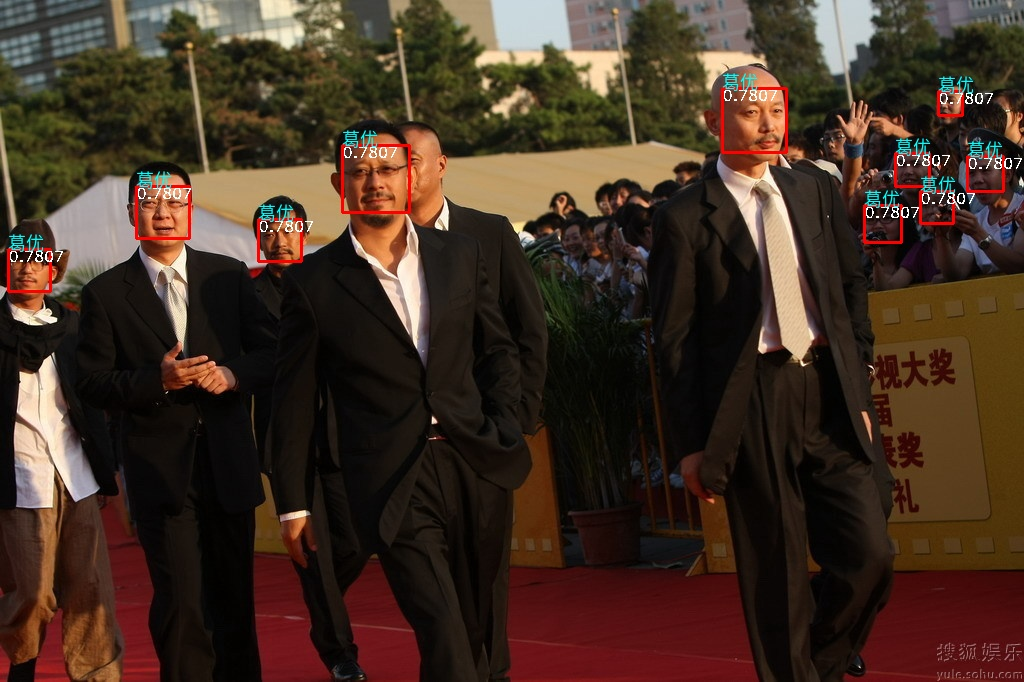
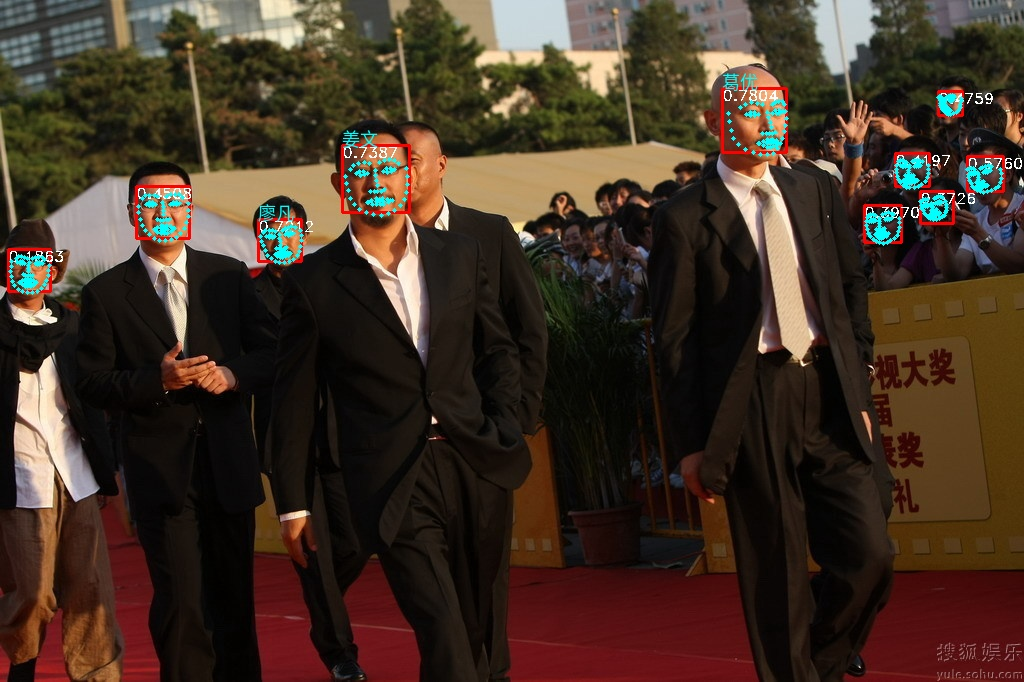
Fix face recog problems

diff --git a/examples/register_face.py b/examples/register_face.py
@@ -1,0 +1,149 @@
+import json
+import os
+import traceback
+
+import cv2
+import time
+import numpy as np
+
+import h5py
+
+from tqdm import tqdm
+
+import onnxruntime
+from openiva.commons import facial
+
+from detector import Detector
+from alignment import LandmarksExtractor
+from arcface import ArcFace
+from arcface.utils import l2_norm, face_distance, sub_feature
+
+from openiva.commons.facial import FacialInfo, FacialDB, parse_filename, remove_old
+
+from openiva.commons.io import imread
+
+
+def worker_dir(path_dir, detector: Detector, lm_extractor: LandmarksExtractor, arcface: ArcFace, over_write=False):
+    facial_info = FacialInfo()
+
+    print('Registing dir:{}'.format(path_dir))
+    info_path = os.path.join(path_dir, 'info.json')
+
+    empty_flag_path = os.path.join(path_dir, 'empty.flag')
+    nb_imgs = 0
+    name_celeba, id_douban, gender_id = parse_filename(path_dir)
+
+    # and not (os.path.exists(empty_flag_path)):
+    if ((not os.path.exists(info_path)) or over_write):
+        if os.path.exists(info_path):
+            os.remove(info_path)
+        path_list = [os.path.join(path_dir, fn) for fn in os.listdir(path_dir)]
+
+        feature_list = []
+        for path in path_list:
+            try:
+                if path[-4:] in ['flag', 'json']:
+                    continue
+                # print('Working on img:{}'.format(path))
+                img_src = imread(path)
+                if img_src is None:
+                    continue
+                rectangles_batch, probes_batch = detector.predict([img_src])
+                rectangles = rectangles_batch[0]
+
+                if not len(rectangles) == 1:
+                    # print("More than 1 face or no face in img, PASS")
+                    continue
+
+                lm = lm_extractor.predict_single(img_src, rectangles)[0]
+                feature_vec = arcface.predict_single(img_src, [lm])[0]
+                feature_list.append(feature_vec)
+                nb_imgs += 1
+
+            except KeyboardInterrupt:
+                traceback.print_exc()
+                quit()
+
+            except:
+                traceback.print_exc()
+                continue
+
+        if len(feature_list):
+            feature_list = np.asarray(feature_list)
+            mean_feature = np.mean(feature_list, axis=0)
+            #print(path_dir+' nb feature:{}'.format(len(feature_list)))
+            feature_list, mean_feature = sub_feature(feature_list)
+            print("Computed facial feature vector from {} images from directory {}, got {} faces.\nActor's name is {}.".format(
+                nb_imgs, path_dir, len(feature_list), name_celeba))
+
+            info_dict = {"name": name_celeba, "id": id_douban, "gender_id": gender_id,
+                         "feature_vector": mean_feature.tolist(), "feature_list": feature_list.tolist()}
+            facial_info.update(info_dict)
+            facial_info.save_info(path_json=info_path)
+
+            flag_empty = False
+            if os.path.exists(empty_flag_path):
+                os.remove(empty_flag_path)
+        else:
+            flag_empty = True
+            with open(empty_flag_path, 'w') as fp:
+                fp.write('e')
+            mean_feature = None
+    elif os.path.exists(empty_flag_path):
+        flag_empty = True
+        mean_feature = None
+    else:
+        info_dict = facial_info.load_info(info_path)
+        flag_empty = False
+        if os.path.exists(empty_flag_path):
+            os.remove(empty_flag_path)
+
+    return facial_info.info_dict, flag_empty
+
+
+def register_all(root_dir, out_path, detector: Detector, lm_extractor: LandmarksExtractor, arcface: ArcFace, use_par=False, over_write=False):
+    facial_db = FacialDB()
+    if over_write:
+        remove_old(root_dir)
+    pathes_dir = [path_dir for path_dir in [os.path.join(
+        root_dir, name_dir) for name_dir in os.listdir(root_dir)] if os.path.isdir(path_dir)]
+
+    results = []
+
+    print('Registing {} by serial processing'.format(root_dir))
+    results = [worker_dir(path_dir, detector, lm_extractor,
+                          arcface, over_write) for path_dir in pathes_dir]
+
+    db_dict = {}
+
+    for i, (info_dict, flag_empty) in enumerate(results):
+        if not flag_empty:
+            db_dict.setdefault(info_dict["id"], info_dict)
+
+    with open(out_path, "w") as fp:
+        json.dump(db_dict, fp)
+
+    with h5py.File("debug.h5", "w") as fph5:
+        for i, info_dict in db_dict.items():
+            grp = fph5.create_group(i)
+            for k, v in info_dict.items():
+                ds = grp.create_dataset(k, data=v)
+
+    return db_dict
+
+
+if __name__ == "__main__":
+    so = onnxruntime.SessionOptions()
+    so.graph_optimization_level = onnxruntime.GraphOptimizationLevel.ORT_DISABLE_ALL
+
+    detector = Detector("weights/face_detector_640_dy_sim.onnx",
+                        providers="cuda", sessionOptions=so, input_size=(640, 480), top_k=16)
+    lm_extractor = LandmarksExtractor(
+        "weights/landmarks_68_pfld_dy_sim.onnx", sessionOptions=so, providers="cuda")
+    arcface = ArcFace("weights/arc_mbv2_ccrop_sim.onnx",
+                      sessionOptions=so, providers="cuda")
+    import sys
+    root_dir = "datas/celebrity_images"
+    out_path = "t.json"
+    register_all(root_dir, out_path, detector, lm_extractor,
+                 arcface, use_par=False, over_write=True)

diff --git a/examples/test_face.py b/examples/test_face.py
@@ -16,7 +16,7 @@ from detector import Detector
 from alignment import LandmarksExtractor
 from arcface import ArcFace
 
-from openiva.tools.register_face import register_all
+from register_face import register_all
 
 if __name__ == "__main__":
     so = onnxruntime.SessionOptions()
@@ -86,7 +86,7 @@ if __name__ == "__main__":
             img_wild = cv2.cvtColor(np.asarray(image), cv2.COLOR_RGB2BGR)
 
         for (x, y) in landmark:
-            cv2.circle(img_wild, (int(x), int(y)), 3, (255, 255, 0), -1)
+            cv2.circle(img_wild, (int(x), int(y)), 2, (255, 255, 0), -1)
 
     name = "datas/imgs_results/vis_recog.jpg"
     cv2.imwrite(name, img_wild)

diff --git a/openiva/commons/generators.py b/openiva/commons/generators.py
@@ -12,6 +12,10 @@ from .io import imread
 
 
 def read_images_local(pathes_imgs: list, batch_size=8, shuffle=False):
+    '''
+    Data generator for reading local images and produce batch data.
+    '''
+
     q_dict_out = {'flag_start': True, 'flag_end': False, 'real_len': 0}
 
     samples_indecies = np.asarray(range(len(pathes_imgs)))

diff --git a/examples/arcface/model.py b/examples/arcface/model.py
@@ -63,6 +63,7 @@ def post_process(data):
         embs = []
         for _ in landms:
             embs.append(embs_all[n])
+            n+=1
         batch_embs.append(embs)
 
     return batch_embs
